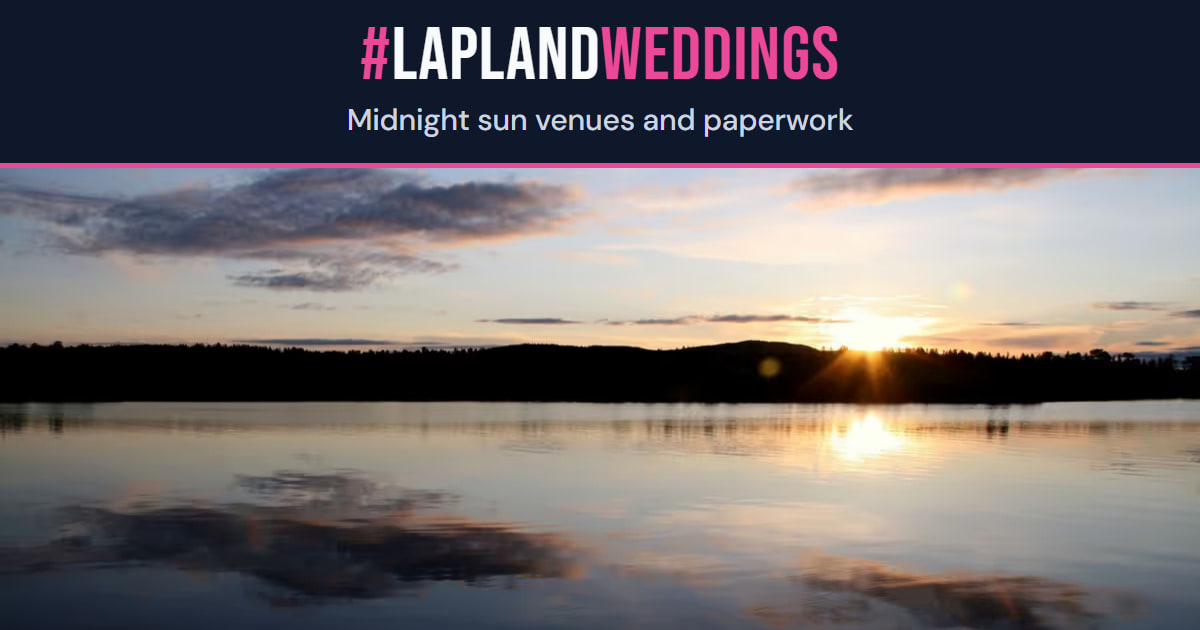
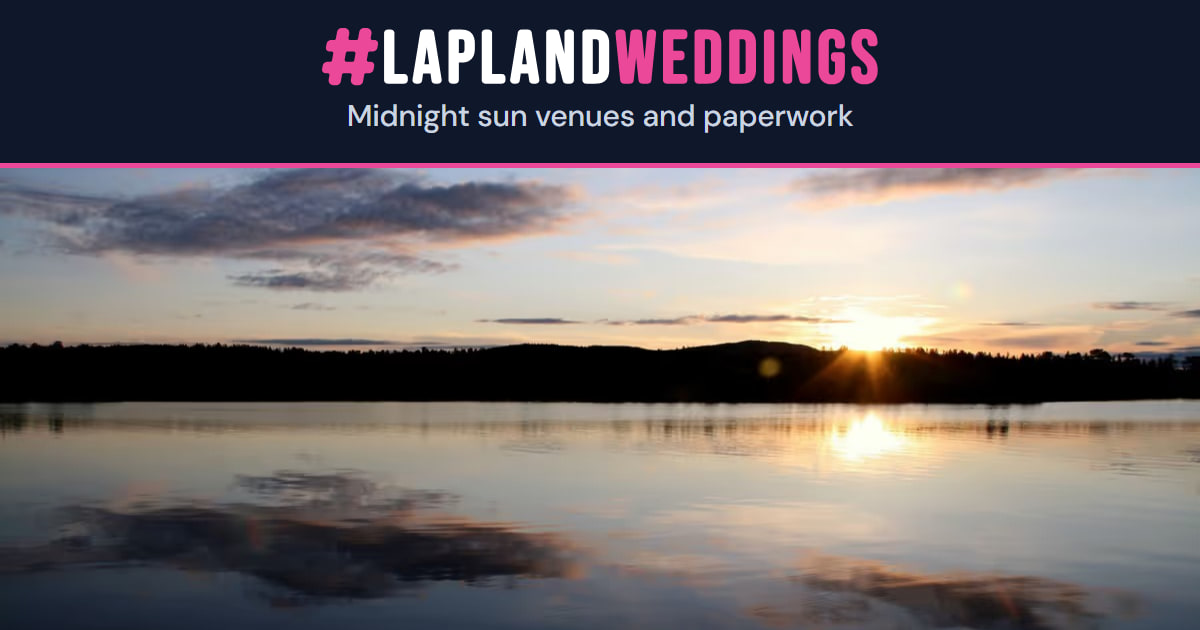
Jakokuvat: sanamerkki virallisessa muodossa (tekstilogo B)
Vesa 15.11.2026: "korjaa jakokuvat". Sivustokortti tehty uudelleen lv-opsin
scripts/og/card.mjs:llä, joka piirtää #LAPLANDWEDDINGS-merkin virallisen tekstilogon
muodossa (lv-ops da94f847). Kuva, rivi ja asettelu ennallaan; uusi ?v= kortin
sisällöstä (install.mjs: index.html, prerender-meta.mjs, SEO.tsx). Sivukortteja
tällä sivustolla ei ole (ei routes.jsonia).

Changed region(s): [[0.2467, 0.0302, 0.74, 0.2111]]

diff --git a/index.html b/index.html
@@ -244,15 +244,15 @@
     </script>
 
       <!-- Open Graph image (1200×630 JPEG) -->
-    <meta property="og:image" content="https://laplandweddings.online/og.jpg?v=2fe91594" />
-    <meta property="og:image:secure_url" content="https://laplandweddings.online/og.jpg?v=2fe91594" />
+    <meta property="og:image" content="https://laplandweddings.online/og.jpg?v=a3bfd28f" />
+    <meta property="og:image:secure_url" content="https://laplandweddings.online/og.jpg?v=a3bfd28f" />
     <meta property="og:image:type" content="image/jpeg" />
     <meta property="og:image:width" content="1200" />
     <meta property="og:image:height" content="630" />
     <meta property="og:image:alt" content="Northern lights over dark, snowy fells on a winter night. #LAPLANDWEDDINGS" />
     <!-- Twitter card -->
     <meta name="twitter:card" content="summary_large_image" />
-    <meta name="twitter:image" content="https://laplandweddings.online/og.jpg?v=2fe91594" />
+    <meta name="twitter:image" content="https://laplandweddings.online/og.jpg?v=a3bfd28f" />
     <meta name="twitter:image:alt" content="Northern lights over dark, snowy fells on a winter night. #LAPLANDWEDDINGS" />
       <!-- Favicon stack (LV ecosystem unified design) -->
     <link rel="icon" href="/favicon.svg?v=20261114" type="image/svg+xml" />

diff --git a/src/components/SEO.tsx b/src/components/SEO.tsx
@@ -16,7 +16,7 @@ interface SEOProps {
 }
 
 const SITE = 'https://laplandweddings.online';
-const DEFAULT_IMAGE = 'https://laplandweddings.online/og.jpg?v=2fe91594'; // was a hotlink to a third-party photographer's site (19.9.2026)
+const DEFAULT_IMAGE = 'https://laplandweddings.online/og.jpg?v=a3bfd28f'; // was a hotlink to a third-party photographer's site (19.9.2026)
 
 const SUPPORTED: Lang[] = ['en', 'fi', 'de', 'ja', 'es', 'pt-BR', 'zh-CN', 'ko', 'fr', 'it', 'nl', 'sv'];
 const URL_PREFIX_OF: Record<Lang, string> = {
